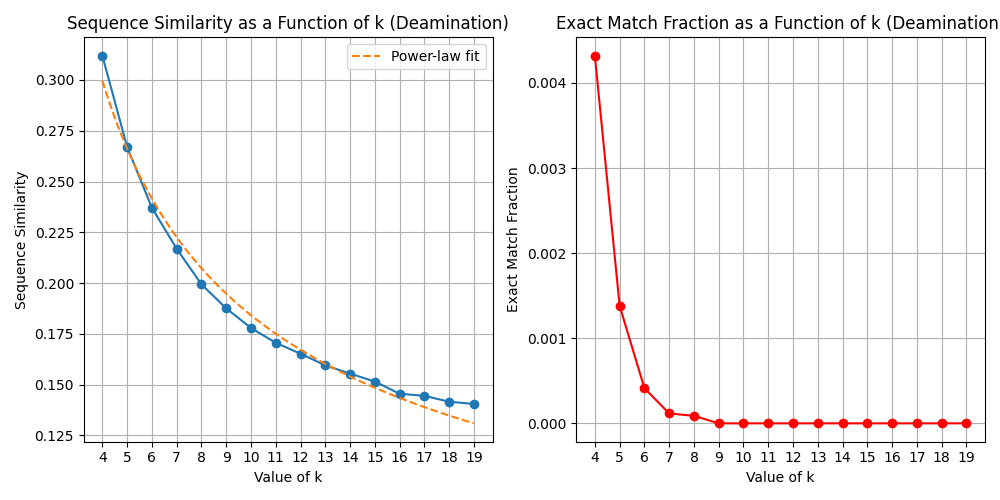
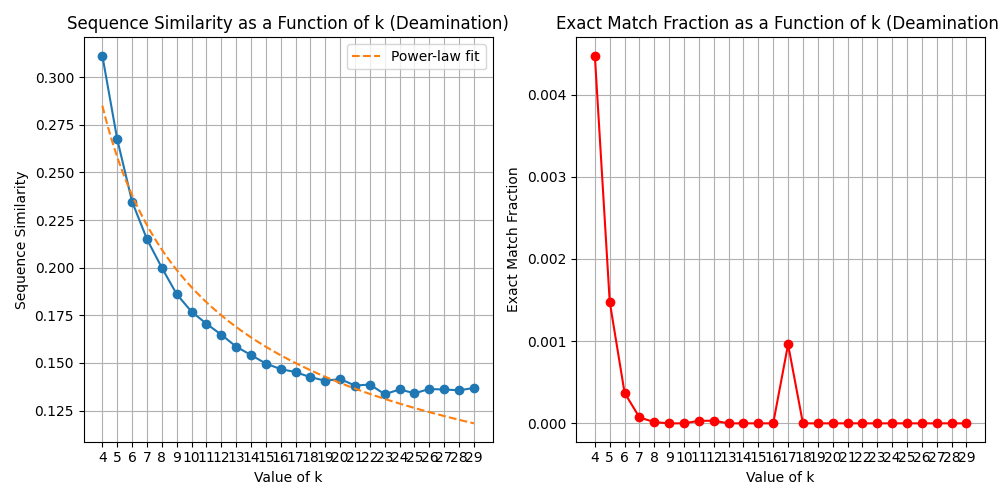
Update

diff --git a/simulations/avg_mismatch/main.py b/simulations/avg_mismatch/main.py
@@ -94,7 +94,7 @@ def find_deamination_mismatches(reads: List[str], k: int, w: int, minimizer_tabl
 
 # Main code for generating the plot
 sequence = read_fasta("rCRS.fa")
-k_values = list(range(4, 20))
+k_values = list(range(4, 30))
 average_mismatches = []
 exact_match_fractions = []
 
